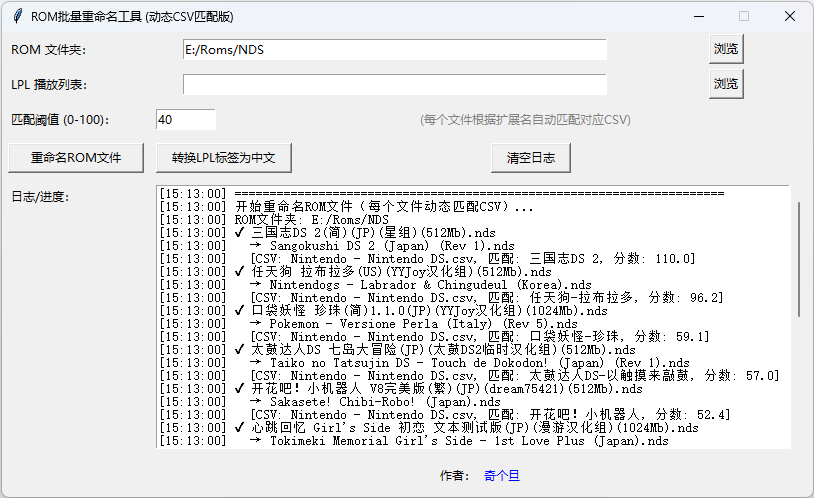
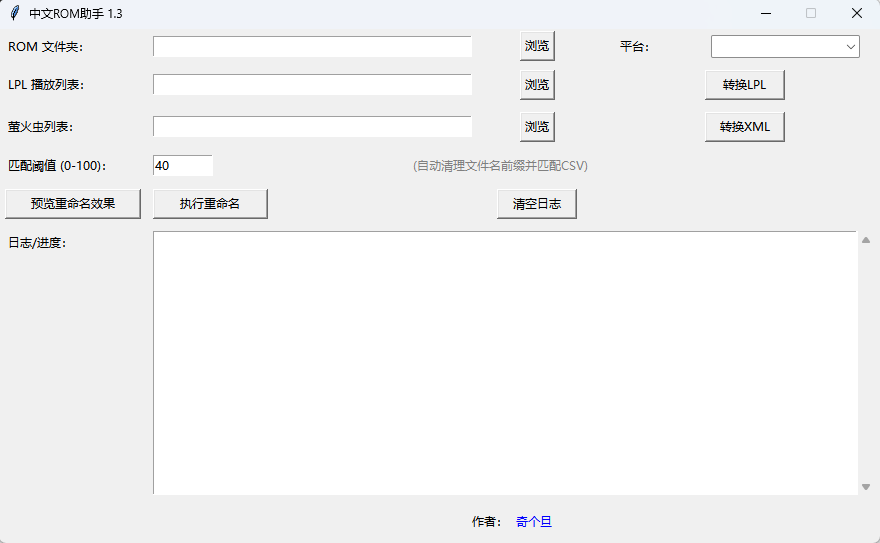
readme

diff --git a/Source/gui.py b/Source/gui.py
@@ -463,7 +463,6 @@ class RenamerApp:
             
             # 保存到桌面
             desktop = Path.home() / "Desktop"
-            save_name = Path(xml_path).name.replace('.xml', '_CN.xml')
             save_path = desktop / save_name
             
             save_xml_playlist(tree, save_path)

diff --git a/Source/config.py b/Source/config.py
@@ -4,7 +4,7 @@ ROM Renamer - 配置文件
 """
 
 # 应用配置
-APP_TITLE = "ROM批量重命名工具 (动态CSV匹配版)"
+APP_TITLE = "中文ROM助手 1.3"
 CSV_ROOT_DIR = 'rom-name-cn-master'  # CSV文件根目录
 DEFAULT_THRESHOLD = 40  # 默认匹配阈值
 

diff --git a/README.md b/README.md
@@ -1,9 +1,10 @@
-# RetroarchRenameForCN
+# 中文Rom助手（RetroarchRenameForCN）
 一个为中文Rom快速在Retroarch模拟器中获取游戏封面的方案
 
 ## 功能
 - 把不规范中文名用模糊匹配翻译成官方英文名，在retroarch中就可以自动下载封面
 - 修改retroarch的lpl列表配置文件，将英文的label修改为标准中文名
+- 修改萤火虫（knull）系统的列表配置文件，将英文的label修改为标准中文名
 ![Screenshot](Screenshot.png)
 
 ## 运行
@@ -15,11 +16,12 @@ python rom_rename_tool.py
 ```
 
 ## 平台
-- FC,SFC,GB,GBC,GBA,NDS,3DS,New 3DS,Wii,Wii U,PS1,PSP
+- FC,SFC,GB,GBC,GBA,NDS,3DS,New 3DS,Wii,Wii U,PS1,PSP,MD,DC
 
 ## 注意
 - 不支持罗马数字，请改为阿拉伯数字，比如最终幻想IV,请改为最终幻想4
-- 不支持zip压缩后的rom
 
 ## 致谢
-https://github.com/yingw/rom-name-cn 项目提供的中文游戏名称数据库。
+https://github.com/yingw/rom-name-cn 中文游戏名称数据库。
+https://github.com/libretro/RetroArch 著名的全能模拟器
+https://github.com/knulli-cfw/distribution 萤火虫开源系统
